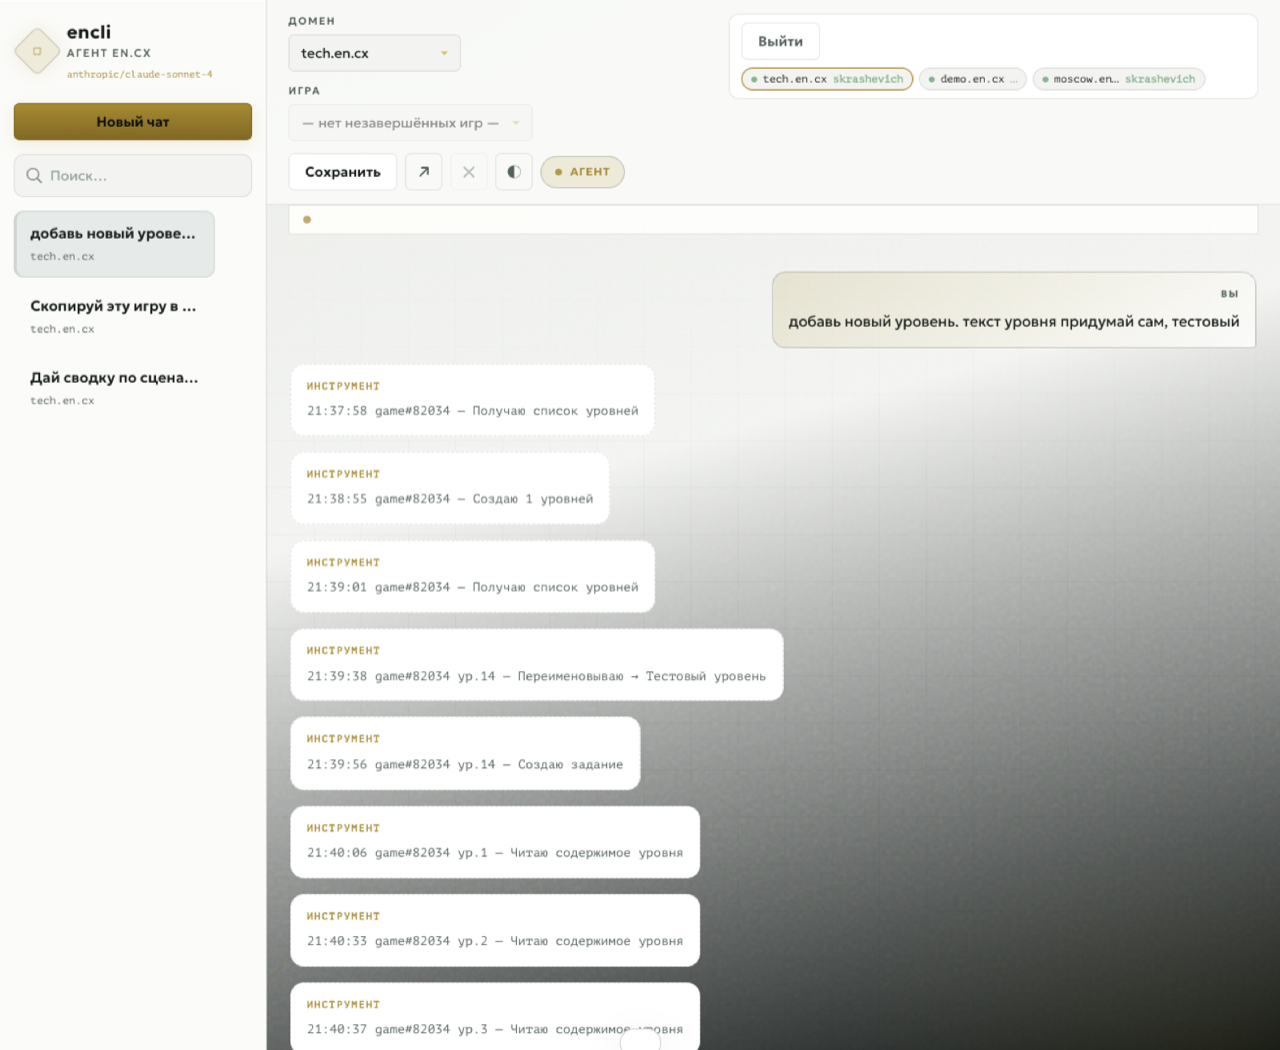
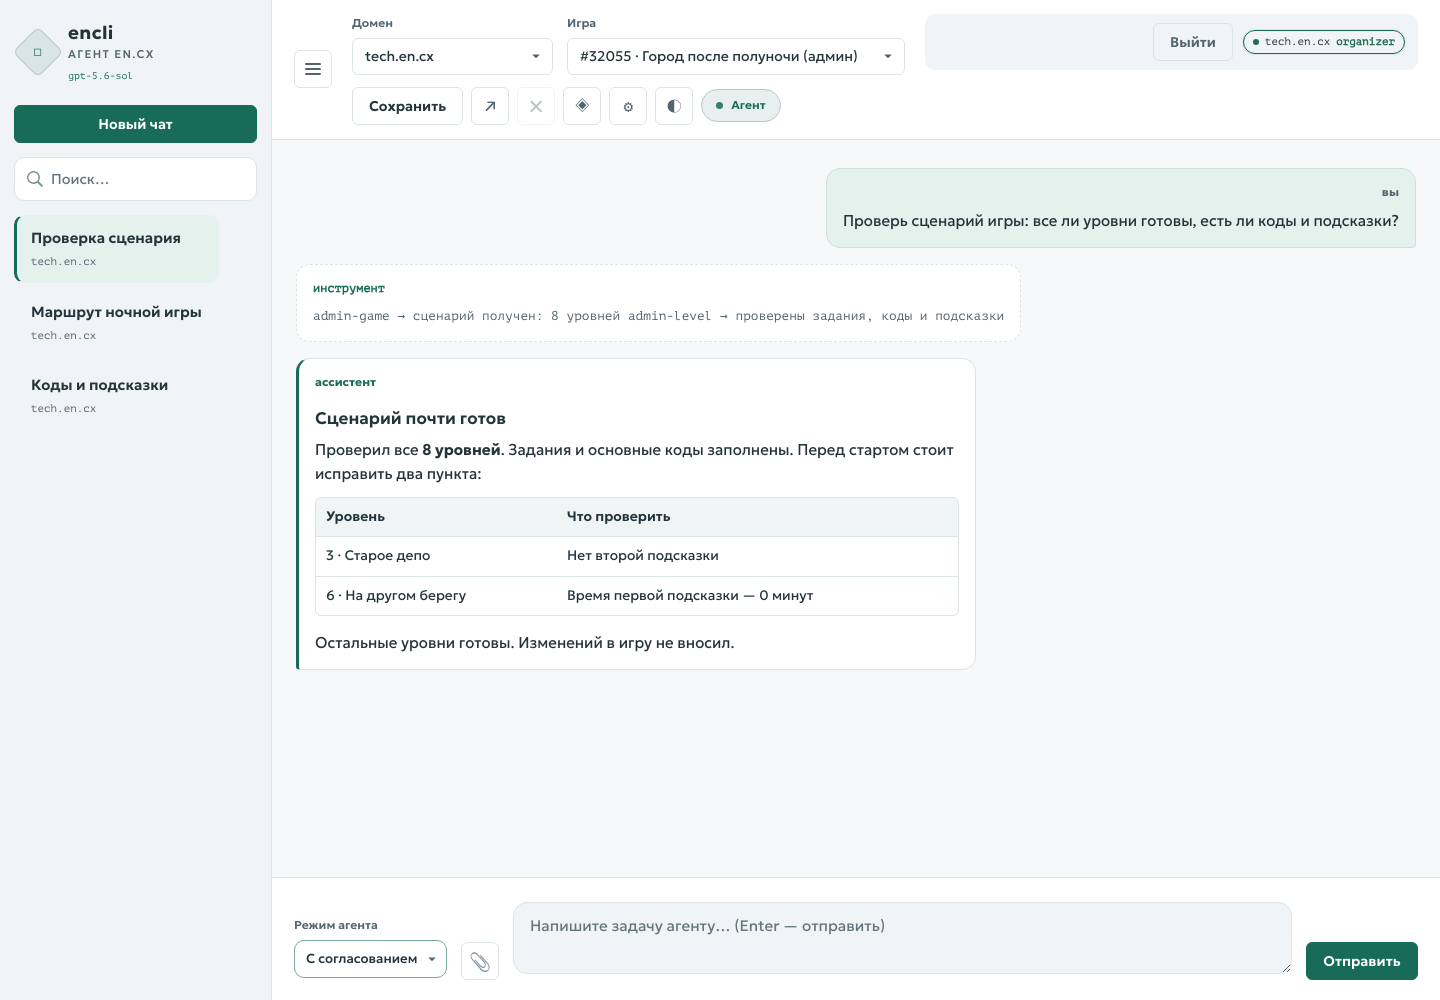
feat: add web UI screenshot generation workflow and update documentation

diff --git a/cmd/encli/webui/style.css b/cmd/encli/webui/style.css
@@ -1439,6 +1439,7 @@ html[data-sidebar="closed"] .sidebar {
 
 /* Toast */
 .toast {
+  visibility: hidden;
   position: fixed;
   bottom: 28px;
   left: 50%;
@@ -1452,12 +1453,14 @@ html[data-sidebar="closed"] .sidebar {
   color: var(--text);
   font-size: 0.9rem;
   font-weight: 500;
-  transition: transform 0.35s var(--ease-out);
+  transition: transform 0.35s var(--ease-out), visibility 0s 0.35s;
   z-index: 200;
   pointer-events: none;
 }
 
 .toast.visible {
+  visibility: visible;
+  transition-delay: 0s;
   transform: translateX(-50%) translateY(0);
 }
 

diff --git a/tools/screenshots/README.md b/tools/screenshots/README.md
@@ -1,0 +1,28 @@
+# Скриншоты Web UI
+
+Генератор открывает текущие `index.html`, `style.css` и `app.js` в Chromium.
+API подменяется демонстрационными ответами: настоящие аккаунты, сервер Encounter
+и LLM не используются. Получаются три PNG для главного README: общий вид,
+чат в светлой теме и тот же чат в тёмной теме.
+
+```sh
+cd tools/screenshots
+npm ci
+npx playwright install chromium
+npm run render
+```
+
+На Linux для установки системных зависимостей браузера:
+`npx playwright install --with-deps chromium`.
+Нужен доступ к Google Fonts для загрузки тех же шрифтов, что использует Web UI.
+
+Workflow `Web UI screenshots` запускается при изменении web-ui, генератора
+или самого workflow. В PR изображения доступны как artifact; после изменения
+`main` workflow коммитит обновлённые PNG, поэтому картинки в README обновляются
+автоматически. Требуется разрешение репозитория на push от `GITHUB_TOKEN` в
+`main`; правила защиты ветки могут его запрещать. При таком запрете push явно
+завершится ошибкой, а изображения останутся доступны в artifact.
+
+Для изменения содержимого примеров отредактируйте фикстуры в `render.mjs`.
+Генератор завершается ошибкой при неизвестном API-запросе, ошибке JavaScript,
+незагруженном шрифте или видимом уведомлении об ошибке.

diff --git a/README.md b/README.md
@@ -20,6 +20,8 @@
 - 
 #### Скриншоты
 
+Снимки автоматически пересоздаются при изменении web-ui. [Локальная генерация и CI](tools/screenshots/README.md).
+
 Общий вид: боковая панель с историей чатов, выбор домена и игры, авторизация, поле ввода и режим агента (только чтение / с согласованием / полный доступ). В левом верхнем углу — текущая LLM-модель.
 
 ![Общий вид Web UI encli](docs/screenshots/web-ui-overview.png)
